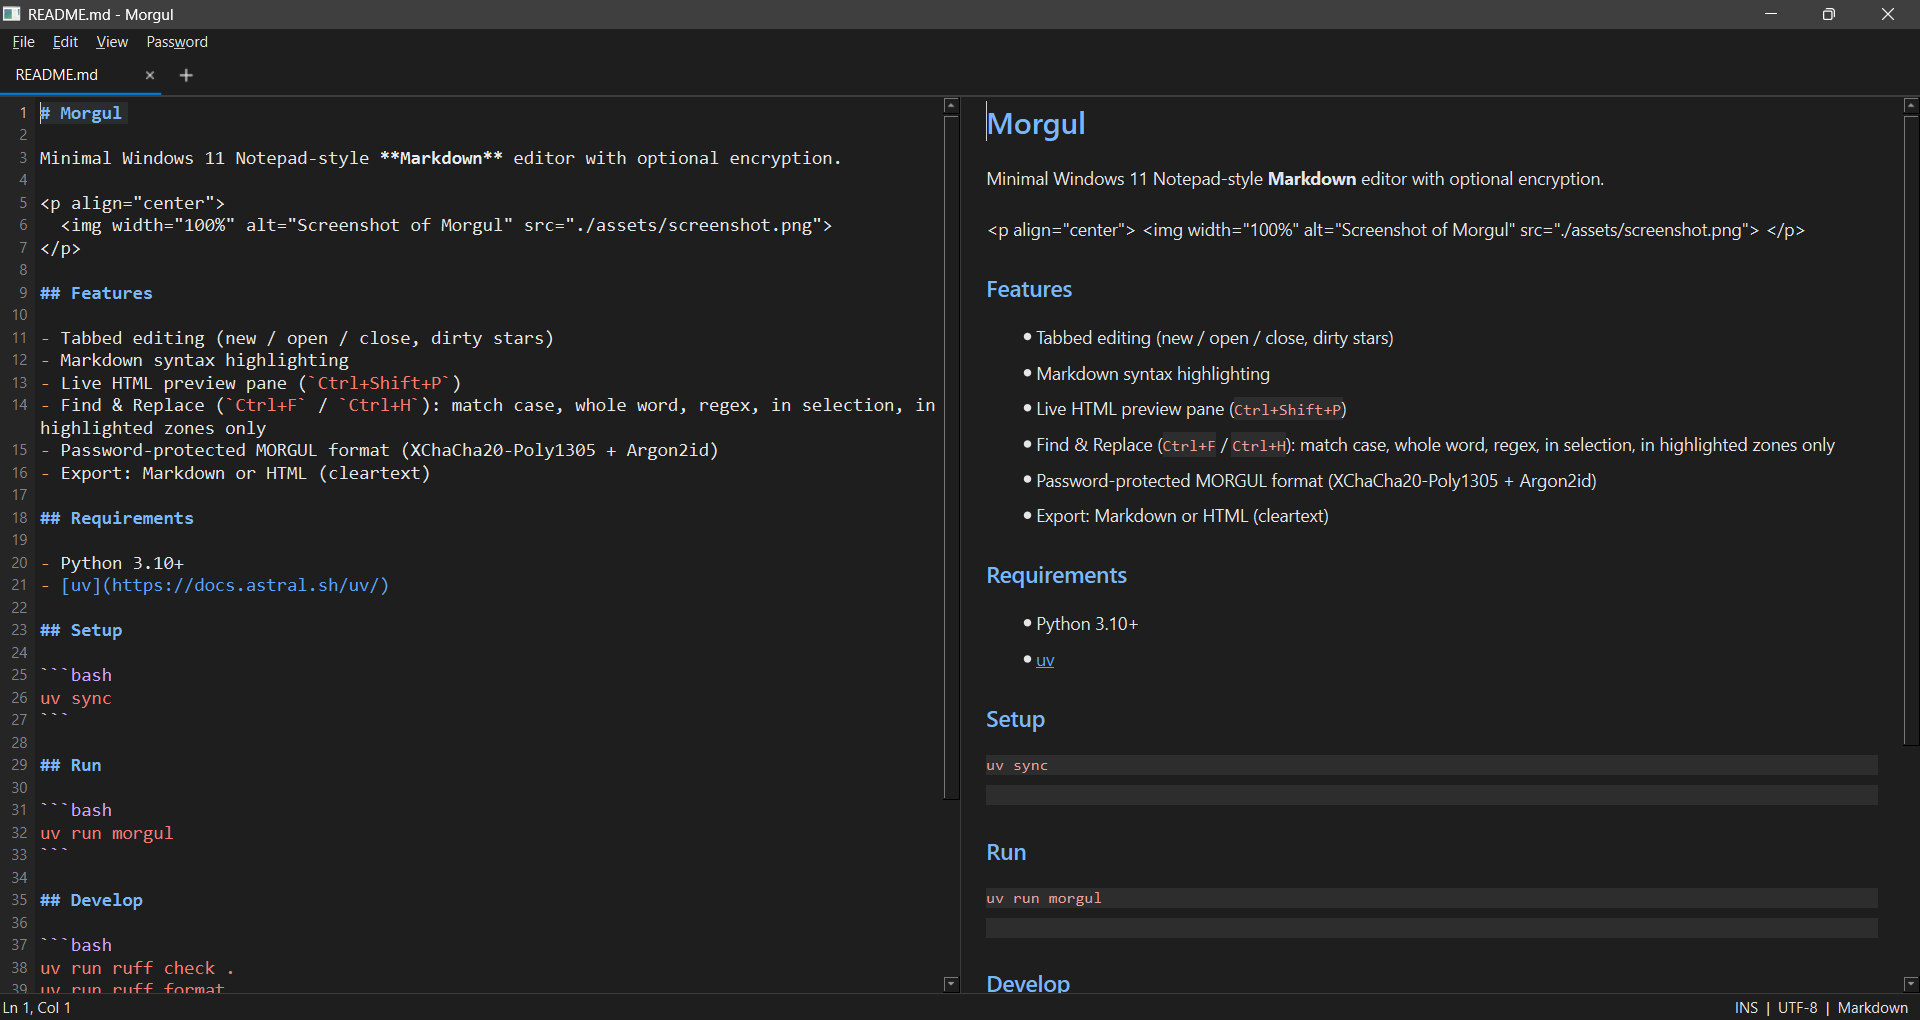
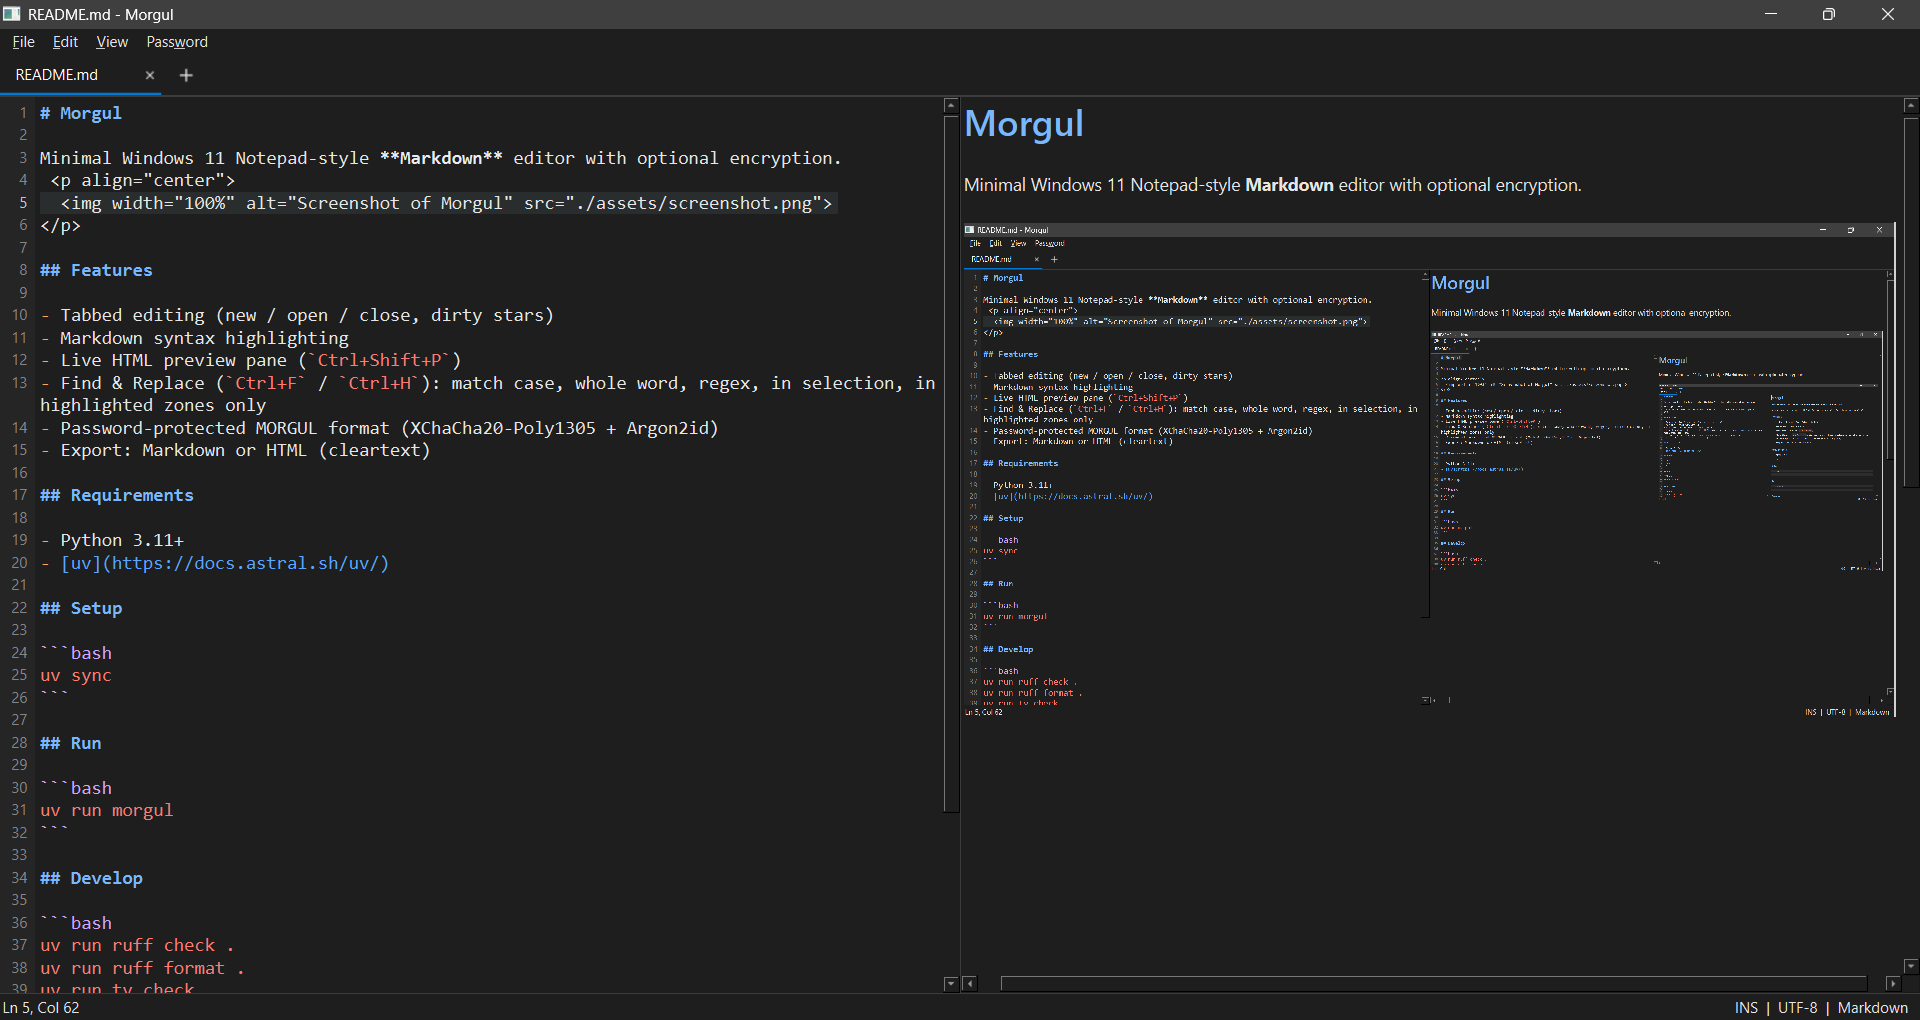
Add full GFM support, update assets/screenshot.png

diff --git a/src/morgul/app.py b/src/morgul/app.py
@@ -15,6 +15,7 @@ from PySide6.QtCore import (
     QSize,
     Qt,
     QTimer,
+    QUrl,
     Signal,
 )
 from PySide6.QtGui import (
@@ -24,6 +25,7 @@ from PySide6.QtGui import (
     QEnterEvent,
     QFont,
     QIcon,
+    QImage,
     QKeyEvent,
     QKeySequence,
     QMouseEvent,
@@ -37,6 +39,7 @@ from PySide6.QtGui import (
     QTextCursor,
     QTextDocument,
     QTextFormat,
+    QTextImageFormat,
 )
 from PySide6.QtWidgets import (
     QApplication,
@@ -573,6 +576,87 @@ class PreviewPane(QTextBrowser):
             | Qt.TextInteractionFlag.LinksAccessibleByKeyboard
         )
 
+    def set_preview_html(self, html: str, *, base_dir: Path | None) -> None:
+        """Load *html* with a file base URL and scale images to the viewport.
+
+        QTextBrowser ignores CSS ``max-width`` / percentage ``width`` on
+        ``<img>``, so large screenshots stay at intrinsic size and look
+        cropped/off-center. After parse, clamp every image to the pane width.
+        """
+        root = (base_dir if base_dir is not None else Path.cwd()).resolve()
+        base = QUrl.fromLocalFile(str(root) + "/")
+        self.document().setBaseUrl(base)
+        self.setHtml(html)
+        self.fit_images()
+
+    def fit_images(self) -> None:
+        """Clamp embedded images to the viewport width (keep aspect ratio)."""
+        doc = self.document()
+        max_w = max(float(self.viewport().width() - 8), 32.0)
+        # Skip no-op format writes when size already matches within half a pixel.
+        eps = 0.5
+        block = doc.begin()
+        while block.isValid():
+            it = block.begin()
+            while not it.atEnd():
+                frag = it.fragment()
+                if frag.isValid() and frag.charFormat().isImageFormat():
+                    img_fmt = frag.charFormat().toImageFormat()
+                    image = self._image_for_format(img_fmt)
+                    if image is not None and not image.isNull() and image.width() > 0:
+                        iw = float(image.width())
+                        ih = float(image.height())
+                        # Honor explicit pixel widths when they already fit.
+                        cur_w = img_fmt.width()
+                        if cur_w > 0 and cur_w <= max_w:
+                            new_w = cur_w
+                        else:
+                            new_w = min(iw, max_w)
+                        new_h = ih * (new_w / iw)
+                        if (
+                            abs(img_fmt.width() - new_w) >= eps
+                            or abs(img_fmt.height() - new_h) >= eps
+                        ):
+                            img_fmt.setWidth(new_w)
+                            img_fmt.setHeight(new_h)
+                            cur = QTextCursor(doc)
+                            cur.setPosition(frag.position())
+                            cur.setPosition(
+                                frag.position() + frag.length(),
+                                QTextCursor.MoveMode.KeepAnchor,
+                            )
+                            cur.setCharFormat(img_fmt)
+                it += 1
+            block = block.next()
+
+    def _image_for_format(self, img_fmt: QTextImageFormat) -> QImage | None:
+        """Resolve a ``QTextImageFormat`` to a ``QImage`` via base URL or path.
+
+        Returns:
+            The loaded image, or ``None`` when the resource cannot be resolved.
+        """
+        name = img_fmt.name()
+        url = QUrl(name)
+        if url.isRelative():
+            url = self.document().baseUrl().resolved(url)
+        if url.isLocalFile():
+            image = QImage(url.toLocalFile())
+            if not image.isNull():
+                return image
+        res = self.document().resource(
+            QTextDocument.ResourceType.ImageResource,
+            QUrl(name),
+        )
+        if isinstance(res, QImage):
+            return res
+        return None
+
+    @override
+    def resizeEvent(self, event: QResizeEvent) -> None:
+        """Re-fit images when the preview pane width changes."""
+        super().resizeEvent(event)
+        self.fit_images()
+
     def _source_range_for_preview_selection(self) -> tuple[int, int]:
         """Map the current preview selection (or caret) onto source offsets.
 
@@ -1042,7 +1126,8 @@ class EditorTab(QWidget):
         source = self.editor.toPlainText()
         source_pos = self.editor.textCursor().position()
 
-        self.preview.setHtml(to_html(source))
+        base_dir = self.path.parent if self.path is not None else None
+        self.preview.set_preview_html(to_html(source), base_dir=base_dir)
         plain_after = self.preview.toPlainText()
         new_pos = source_pos_to_preview(source, plain_after, source_pos)
 

diff --git a/src/morgul/render.py b/src/morgul/render.py
@@ -8,15 +8,32 @@ from __future__ import annotations
 import re
 
 from markdown_it import MarkdownIt
-from mdit_py_plugins.tasklists import tasklists_plugin
+from mdit_py_plugins.gfm import gfm_plugin
 
-# CommonMark + GFM tables + task lists; raw HTML off for untrusted source.
+# GFM preset: tables, strikethrough, autolinks, task lists, footnotes.
+# HTML enabled so <img>, <br>, <b>, etc. pass through; tagfilter blocks
+# the dangerous tags per GFM spec §6.12.
 # ponytail: single shared parser; rebuild if you ever need per-call options.
-_PARSER = (
-    MarkdownIt("commonmark", {"html": False, "linkify": False})
-    .enable("table")
-    .use(tasklists_plugin)
+_PARSER = MarkdownIt("commonmark", {"html": True, "linkify": False}).use(
+    gfm_plugin,
 )
+
+# GFM "Disallowed Raw HTML" tagfilter (spec §6.12).
+# Escapes the opening `<` of dangerous tags; all other HTML passes through.
+_DISALLOWED_TAGS = re.compile(
+    r"<(/?)(title|textarea|style|xmp|iframe|noembed|noframes|script|plaintext)\b",
+    re.IGNORECASE,
+)
+
+
+def _tagfilter(html: str) -> str:
+    """Apply GFM tagfilter: escape disallowed raw HTML tags.
+
+    Returns:
+        HTML with ``<`` replaced by ``&lt;`` for blocked tag names.
+    """
+    return _DISALLOWED_TAGS.sub(r"&lt;\1\2", html)
+
 
 # Loose task syntax people type: ``- [] foo`` (GFM needs a space inside).
 _LOOSE_EMPTY_BOX = re.compile(
@@ -80,6 +97,7 @@ th, td { border: 1px solid #484848; padding: 6px 10px; }
 th { background: #2d2d2d; font-weight: 600; }
 tr:nth-child(even) td { background: #252526; }
 hr { border: none; border-top: 1px solid #484848; }
+img { max-width: 100%; height: auto; }
 /* Hide the default bullet; the ☑/☐ glyph is the marker. */
 ul.contains-task-list { list-style: none; padding-left: 0.35em; }
 ul.contains-task-list > li { margin: 0.15em 0; }
@@ -112,7 +130,8 @@ def to_html(source: str) -> str:
     Returns:
         A self-contained HTML page suitable for ``QTextBrowser.setHtml``.
     """
-    body = _qtify_tasklists(_PARSER.render(_normalize_task_markdown(source)))
+    rendered = _PARSER.render(_normalize_task_markdown(source))
+    body = _qtify_tasklists(_tagfilter(rendered))
     return (
         "<!DOCTYPE html><html><head><meta charset='utf-8'>"
         f"<style>{_CSS}</style></head><body>{body}</body></html>"

diff --git a/tests/test_morgul.py b/tests/test_morgul.py
@@ -61,6 +61,42 @@ def test_to_html_accepts_loose_empty_task_box() -> None:
     assert 'type="checkbox"' not in html
 
 
+def test_to_html_allows_img_tag() -> None:
+    html = to_html('<img src="pic.png" alt="photo">')
+    assert '<img src="pic.png" alt="photo">' in html
+
+
+def test_to_html_allows_br_and_inline_html() -> None:
+    html = to_html("line<br>break")
+    assert "<br>" in html
+    html = to_html("Hello <b>bold</b> and <i>italic</i>")
+    assert "<b>bold</b>" in html
+    assert "<i>italic</i>" in html
+
+
+def test_to_html_tagfilter_blocks_script() -> None:
+    html = to_html("<script>alert(1)</script>")
+    assert "<script>" not in html
+    assert "</script>" not in html
+    # Only `<` is replaced; `>` passes through.
+    assert "&lt;script>alert(1)&lt;/script>" in html
+
+
+def test_to_html_tagfilter_blocks_style_iframe() -> None:
+    # Check body content only (the document head has its own <style>).
+    body = to_html("<style>body{}</style>").split("<body>")[1].split("</body>")[0]
+    assert "<style>" not in body
+    assert "&lt;style>" in body
+    body = to_html("<iframe src=x></iframe>").split("<body>")[1].split("</body>")[0]
+    assert "<iframe" not in body
+    assert "&lt;iframe" in body
+
+
+def test_to_html_renders_strikethrough() -> None:
+    html = to_html("~~deleted~~")
+    assert "<s>deleted</s>" in html
+
+
 def test_heading_span() -> None:
     spans, fence = spans_in_line("# Title", in_fence=False)
     assert fence is False
